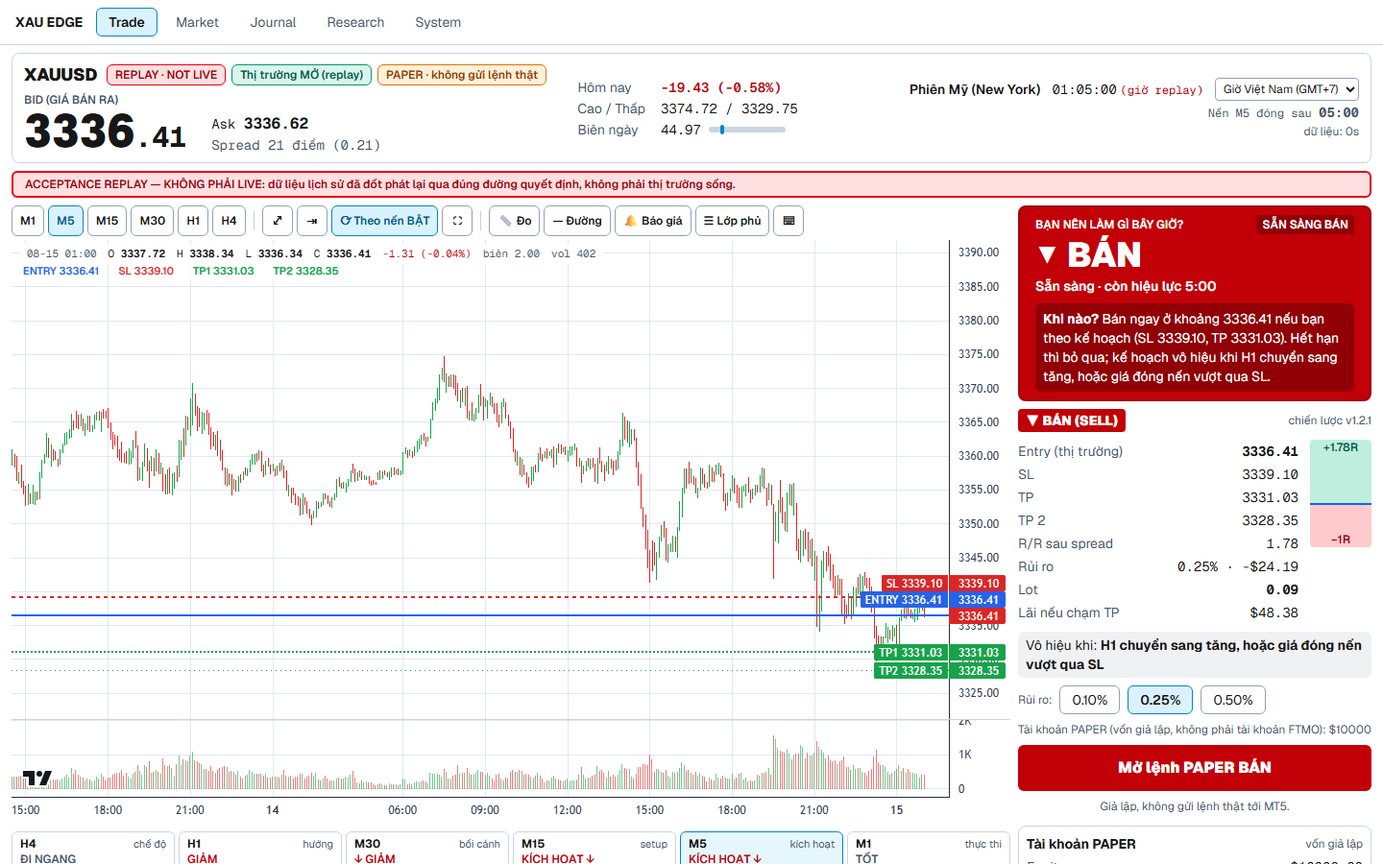
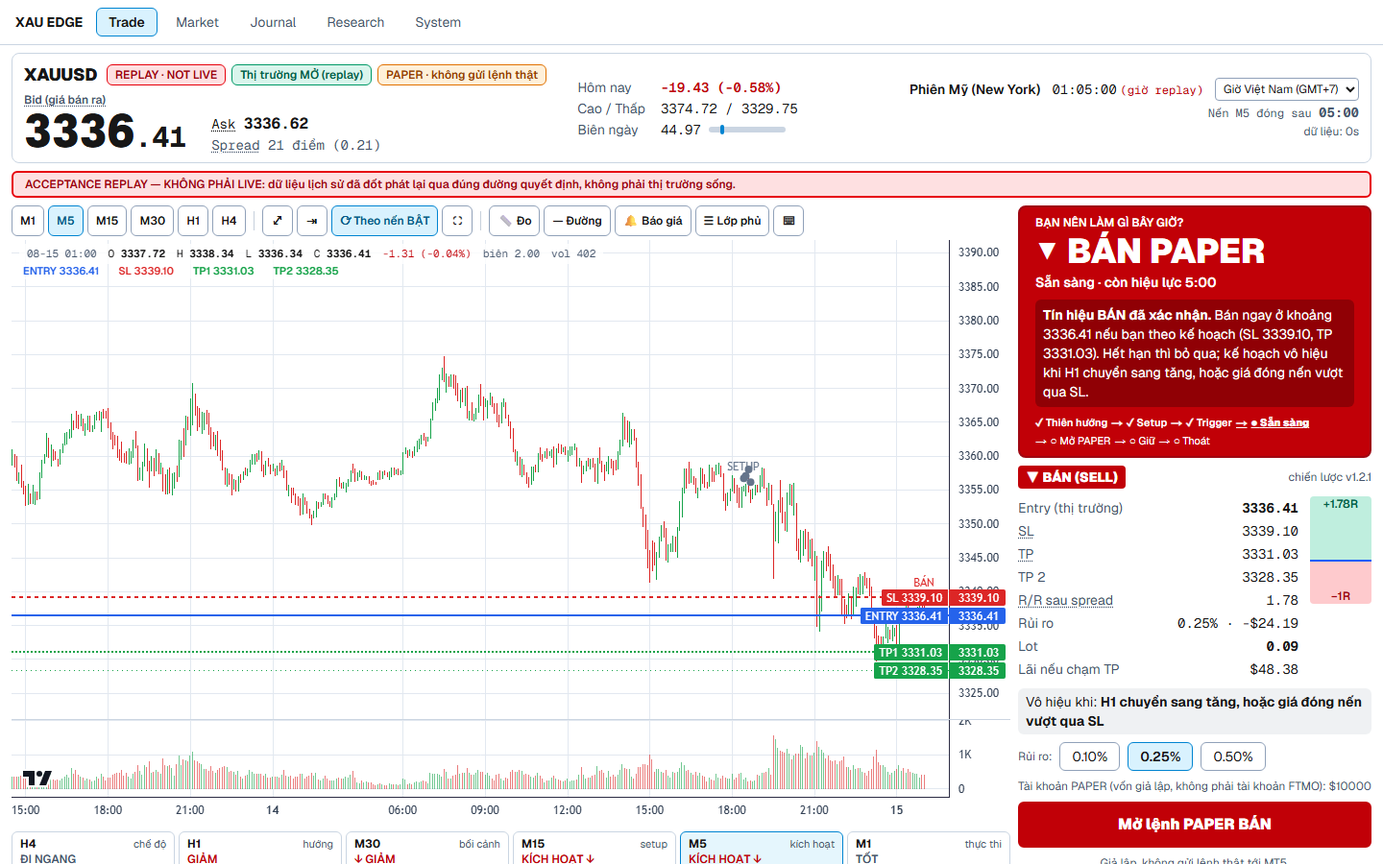
TRADE-08b: landscape phone and 200% zoom get a chart (two-column short layout), System tab in Vietnamese, closed-market hero without bias noise, TIME-exit flake root cause
- short viewports (wide but <=500 px tall): chart | decision columns, folded market details, no sticky bar; chart >= 160 px at 844x390 and 720x450 (executable gate)
- System tab states/sentences in Vietnamese with the raw state as suffix
- bias/setup rows only while the engine evaluates (not closed/expired/blocked)
- TIME_EXIT flake: the EXITED banner lasts 30 replay-minutes and replay steps M5 closes one by one; a 180-minute jump could only show it by a poll landing mid catch-up. Test now stays in the window; Python test pins the behaviour

Changed region(s): [[0.625, 0.2489, 1.0, 1.0], [0.0312, 0.0933, 0.0938, 0.1244], [0.5312, 0.5289, 0.5625, 0.56]]

diff --git a/xau-edge/apps/dashboard/components/terminal/MarketBar.tsx b/xau-edge/apps/dashboard/components/terminal/MarketBar.tsx
@@ -63,8 +63,8 @@ export function MarketBar({ view, tf, zone, onZone, serverNowMs, uiStale }: Prop
   const arrow = dir === "up" ? "▲" : dir === "down" ? "▼" : "";
 
   return (
-    <section data-testid="market-bar" aria-label="Thanh thị trường XAUUSD" className="rounded-lg border border-slate-300 px-3 py-2 dark:border-slate-700">
-      <div className="grid gap-x-8 gap-y-1.5 lg:grid-cols-[auto_auto_1fr] lg:items-center">
+    <section data-testid="market-bar" aria-label="Thanh thị trường XAUUSD" className="rounded-lg border border-slate-300 px-3 py-2 short:py-1 dark:border-slate-700">
+      <div className="grid gap-x-8 gap-y-1.5 short:flex short:flex-wrap short:items-end short:justify-between short:gap-x-6 short:gap-y-0 lg:grid lg:grid-cols-[auto_auto_1fr] lg:items-center">
         {/* price */}
         <div className="min-w-0">
           <div className="flex flex-wrap items-center gap-1.5">
@@ -75,7 +75,7 @@ export function MarketBar({ view, tf, zone, onZone, serverNowMs, uiStale }: Prop
             <span data-testid="market-pill" className={`${pill} ${open ? "border-emerald-600 bg-emerald-500/15 text-emerald-800 dark:text-emerald-200" : "border-slate-500 bg-slate-500/15 text-slate-700 dark:text-slate-300"}`}>
               {open ? `Thị trường MỞ${live ? "" : " (replay)"}` : status === "—" ? "…" : `Thị trường ${status === "CLOSED" ? "ĐÓNG" : status}`}
             </span>
-            <span data-testid="paper-only" className={`${pill} border-amber-600 bg-amber-500/15 text-amber-800 dark:text-amber-200`}><span className="sm:hidden">PAPER</span><span className="hidden sm:inline">PAPER · không gửi lệnh thật</span></span>
+            <span data-testid="paper-only" className={`${pill} border-amber-600 bg-amber-500/15 text-amber-800 dark:text-amber-200`}><span className="roomy:hidden">PAPER</span><span className="hidden roomy:inline">PAPER · không gửi lệnh thật</span></span>
           </div>
           <div className="mt-1 flex flex-wrap items-end gap-x-5 gap-y-1" data-testid="quote">
             <div className={stalePrice ? "grayscale" : ""} aria-label="Giá bid">
@@ -104,7 +104,7 @@ export function MarketBar({ view, tf, zone, onZone, serverNowMs, uiStale }: Prop
         </div>
 
         {/* the day */}
-        <dl data-testid="day-stats" aria-label="Thống kê trong ngày" className={`${more ? "flex" : "hidden"} flex-wrap gap-x-4 gap-y-0.5 text-sm sm:flex lg:grid lg:grid-cols-[auto_auto] lg:gap-x-4`}>
+        <dl data-testid="day-stats" aria-label="Thống kê trong ngày" className={`${more ? "flex" : "hidden"} flex-wrap gap-x-4 gap-y-0.5 text-sm roomy:flex lg:grid lg:grid-cols-[auto_auto] lg:gap-x-4`}>
           <div className="flex gap-1.5 lg:contents">
             <dt className={MUTED}>{daily && !daily.is_current_day ? "Phiên gần nhất" : "Hôm nay"}</dt>
             <dd data-testid="day-change" className={`font-mono font-semibold tabular-nums ${changeTone}`}>
@@ -136,7 +136,7 @@ export function MarketBar({ view, tf, zone, onZone, serverNowMs, uiStale }: Prop
               {serverNowMs > 0 ? clockInZone(serverNowMs, zone) : "--:--:--"}
               {!live && view ? <span className="ml-1 text-xs font-normal text-red-700 dark:text-red-300">(giờ replay)</span> : null}
             </span>
-            <select aria-label="Múi giờ hiển thị" value={zone} onChange={(e) => onZone(e.target.value as DisplayZone)} className={`${more ? "block" : "hidden"} max-w-44 rounded border border-slate-400 bg-transparent px-1 py-0.5 text-xs sm:block`}>
+            <select aria-label="Múi giờ hiển thị" value={zone} onChange={(e) => onZone(e.target.value as DisplayZone)} className={`${more ? "block" : "hidden"} max-w-44 rounded border border-slate-400 bg-transparent px-1 py-0.5 text-xs roomy:block`}>
               {(Object.keys(ZONE_LABEL) as DisplayZone[]).map((z) => (
                 <option key={z} value={z}>{ZONE_LABEL[z]}</option>
               ))}
@@ -146,7 +146,7 @@ export function MarketBar({ view, tf, zone, onZone, serverNowMs, uiStale }: Prop
             {countdown ? <>Nến {tf} đóng sau <b className="text-sm text-inherit">{countdown}</b></> : <span>{open ? `Nến ${tf}: chờ dữ liệu` : reopen !== null ? <>Mở lại lúc <b className="text-sm text-inherit">{formatInZone(ctx?.next_open ?? null, zone).slice(5, 16)}</b> · còn <b className="text-sm text-inherit">{reopenIn}</b></> : `Nến ${tf}: thị trường đóng`}</span>}
           </div>
           <span data-testid="data-age" className={`hidden text-xs sm:inline ${MUTED}`}>dữ liệu: {ageText(view?.data_age_seconds)}</span>
-          <button type="button" data-testid="market-more" aria-expanded={more} onClick={() => setMore(!more)} className="text-xs font-semibold underline sm:hidden">{more ? "Ẩn chi tiết thị trường ▴" : "Chi tiết thị trường ▾"}</button>
+          <button type="button" data-testid="market-more" aria-expanded={more} onClick={() => setMore(!more)} className="text-xs font-semibold underline roomy:hidden">{more ? "Ẩn chi tiết thị trường ▴" : "Chi tiết thị trường ▾"}</button>
         </div>
       </div>
     </section>

diff --git a/xau-edge/apps/dashboard/components/terminal/TerminalView.tsx b/xau-edge/apps/dashboard/components/terminal/TerminalView.tsx
@@ -455,7 +455,7 @@ export function TerminalView() {
         alertCount={alerts.filter((a) => !a.firedAt).length}
         onHelp={() => setHelp(true)}
       />
-      <div className={`relative flex min-h-0 ${fullscreen ? "flex-1" : "h-[min(28rem,62vh)] sm:h-[28rem] lg:h-[min(38rem,calc(100vh-14rem))]"}`}>
+      <div className={`relative flex min-h-0 ${fullscreen ? "flex-1" : "h-[min(28rem,62vh)] sm:h-[28rem] short:h-[calc(100dvh-11rem)] lg:h-[min(38rem,calc(100vh-14rem))]"}`}>
         {dim && <div data-testid="chart-veil" aria-hidden="true" className="pointer-events-none absolute inset-0 z-[5] bg-white/60 dark:bg-slate-950/60" />}
         {hydrated && <TerminalChart
           ref={chart}
@@ -494,12 +494,12 @@ export function TerminalView() {
   );
 
   return (
-    <main className={`mx-auto w-full max-w-[1800px] space-y-2 px-2 py-2 sm:px-3 ${showActionBar ? "pb-20 lg:pb-2" : ""}`}>
+    <main className={`mx-auto w-full max-w-[1800px] space-y-2 px-2 py-2 short:space-y-1 short:py-1 sm:px-3 ${showActionBar ? "pb-20 short:pb-2 lg:pb-2" : ""}`}>
       <div inert={modalOpen} className="space-y-2">
       <MarketBar view={view} tf={prefs.tf} zone={prefs.zone} onZone={changeZone} serverNowMs={serverNow} uiStale={uiStale} />
 
       {mode !== "LIVE" && (
-        <div role="alert" data-testid="replay-banner" className={`rounded-md border-2 px-3 py-1 text-xs font-semibold ${BAD}`}>
+        <div role="alert" data-testid="replay-banner" className={`rounded-md border-2 px-3 py-1 short:py-0 text-xs font-semibold ${BAD}`}>
           {mode.replace("_", " ")} — KHÔNG PHẢI LIVE<span className="hidden sm:inline">: dữ liệu lịch sử đã đốt phát lại qua đúng đường quyết định, không phải thị trường sống.</span>
         </div>
       )}
@@ -542,14 +542,14 @@ export function TerminalView() {
 
       {/* phone: one column in the order price -> decision -> chart -> plan; desktop: chart column | decision column,
           independent of each other so a tall decision never pushes the multi-timeframe strip down */}
-      <div data-testid="terminal-grid" className="grid items-start gap-2 [grid-template-areas:'hero'_'chart'_'mtf'_'body'] lg:grid-cols-[minmax(0,1fr)_23rem] lg:[grid-template-areas:'left_side']">
-        <div className="contents lg:flex lg:min-w-0 lg:flex-col lg:gap-2 lg:[grid-area:left]">
+      <div data-testid="terminal-grid" className="grid items-start gap-2 [grid-template-areas:'hero'_'chart'_'mtf'_'body'] short:grid-cols-[minmax(0,1.5fr)_minmax(0,1fr)] short:[grid-template-areas:'left_side'] lg:grid-cols-[minmax(0,1fr)_23rem] lg:[grid-template-areas:'left_side']">
+        <div className="contents short:flex short:min-w-0 short:flex-col short:gap-2 short:[grid-area:left] lg:flex lg:min-w-0 lg:flex-col lg:gap-2 lg:[grid-area:left]">
           {chartBlock}
           <div style={{ gridArea: "mtf" }} className="min-w-0">
             <MtfStrip rows={view?.timeframes ?? []} tf={prefs.tf} onFocus={focusTf} />
           </div>
         </div>
-        <div className="contents lg:flex lg:min-w-0 lg:flex-col lg:gap-2 lg:[grid-area:side]">
+        <div className="contents short:flex short:max-h-[calc(100dvh-4.5rem)] short:min-w-0 short:flex-col short:gap-2 short:overflow-y-auto short:[grid-area:side] lg:flex lg:min-w-0 lg:flex-col lg:gap-2 lg:[grid-area:side]">
           <div style={{ gridArea: "hero" }} className="min-w-0">{heroNode}</div>
           <div style={{ gridArea: "body" }} className="min-w-0">{bodyNode}</div>
         </div>
@@ -588,7 +588,7 @@ export function TerminalView() {
 
       </div>
       {showActionBar && view && (
-        <div data-testid="mobile-action-bar" inert={modalOpen} style={{ paddingBottom: "max(0.5rem, env(safe-area-inset-bottom))" }} className="fixed inset-x-0 bottom-0 z-[45] flex items-center gap-3 border-t-2 border-slate-400 bg-white px-3 py-2 shadow-[0_-4px_12px_rgba(0,0,0,0.15)] lg:hidden dark:bg-slate-900">
+        <div data-testid="mobile-action-bar" inert={modalOpen} style={{ paddingBottom: "max(0.5rem, env(safe-area-inset-bottom))" }} className="short:hidden fixed inset-x-0 bottom-0 z-[45] flex items-center gap-3 border-t-2 border-slate-400 bg-white px-3 py-2 shadow-[0_-4px_12px_rgba(0,0,0,0.15)] lg:hidden dark:bg-slate-900">
           {hero?.state === "POSITION_OPEN" && position ? (
             <>
               <div className="min-w-0 flex-1 text-sm">

diff --git a/xau-edge/apps/dashboard/components/terminal/ChartToolbar.tsx b/xau-edge/apps/dashboard/components/terminal/ChartToolbar.tsx
@@ -28,7 +28,7 @@ interface Props {
   onHelp: () => void;
 }
 
-const btn = "h-8 min-w-8 items-center justify-center rounded-md border px-2 text-xs font-semibold";
+const btn = "h-8 short:h-7 min-w-8 items-center justify-center rounded-md border px-2 text-xs font-semibold";
 const shown = "inline-flex";
 const on = "border-sky-600 bg-sky-500/15 text-sky-800 dark:text-sky-200";
 const off = "border-slate-400 hover:bg-slate-500/10";
@@ -48,7 +48,7 @@ export function ChartToolbar(p: Props) {
   const [overlayOpen, setOverlayOpen] = useState(false);
   const [price, setPrice] = useState("");
   const [more, setMore] = useState(false); // phone only: the secondary tools
-  const sec = `${more ? "inline-flex" : "hidden"} sm:inline-flex`; // a phone shows only the timeframes, fullscreen and ⋯
+  const sec = `${more ? "inline-flex" : "hidden"} roomy:inline-flex`; // a phone shows only the timeframes, fullscreen and ⋯
 
   const submitAlert = () => {
     const v = parseDecimal(price);
@@ -80,7 +80,7 @@ export function ChartToolbar(p: Props) {
       <span className="mx-1 hidden h-5 w-px bg-slate-400/50 sm:block" aria-hidden="true" />
       <button type="button" data-testid="tool-measure" title="Đo giá/thời gian (M)" aria-pressed={p.tool === "measure"} onClick={() => p.onTool(p.tool === "measure" ? "none" : "measure")} aria-label="Đo giá và thời gian" className={`${btn} ${p.tool === "measure" ? on : off} ${sec}`}>📏&nbsp;Đo</button>
       <button type="button" data-testid="tool-line" title="Vẽ đường ngang (T)" aria-pressed={p.tool === "line"} onClick={() => p.onTool(p.tool === "line" ? "none" : "line")} aria-label="Vẽ đường ngang" className={`${btn} ${p.tool === "line" ? on : off} ${sec}`}>—&nbsp;Đường</button>
-      <div className={`relative ${more ? "block" : "hidden"} sm:block`}>
+      <div className={`relative ${more ? "block" : "hidden"} roomy:block`}>
         <button type="button" data-testid="tool-alert" title="Cảnh báo giá" aria-expanded={alertOpen} onClick={() => { setAlertOpen(!alertOpen); setOverlayOpen(false); }} className={`${shown} ${btn} ${alertOpen ? on : off}`}>
           🔔&nbsp;Báo giá{p.alertCount > 0 ? ` (${p.alertCount})` : ""}
         </button>
@@ -95,7 +95,7 @@ export function ChartToolbar(p: Props) {
           </div>
         )}
       </div>
-      <div className={`relative ${more ? "block" : "hidden"} sm:block`}>
+      <div className={`relative ${more ? "block" : "hidden"} roomy:block`}>
         <button type="button" data-testid="overlay-menu" title="Lớp phủ" aria-expanded={overlayOpen} aria-haspopup="true" onClick={() => { setOverlayOpen(!overlayOpen); setAlertOpen(false); }} aria-label="Lớp phủ trên biểu đồ" className={`${shown} ${btn} ${overlayOpen ? on : off}`}>☰&nbsp;Lớp phủ</button>
         {overlayOpen && (
           <div role="group" aria-label="Lớp phủ trên biểu đồ" className="absolute right-0 top-9 z-30 w-56 space-y-1 rounded-lg border border-slate-400 bg-white p-2 text-xs shadow-lg sm:left-0 sm:right-auto dark:bg-slate-900" onKeyDown={(e) => e.key === "Escape" && setOverlayOpen(false)}>
@@ -113,7 +113,7 @@ export function ChartToolbar(p: Props) {
         )}
       </div>
       <button type="button" data-testid="shortcut-help" title="Phím tắt (?)" aria-label="Xem phím tắt" onClick={p.onHelp} className={`${btn} ${off} ${sec}`}>⌨</button>
-      <button type="button" data-testid="toolbar-more" aria-expanded={more} aria-label={more ? "Ẩn công cụ" : "Thêm công cụ"} onClick={() => setMore(!more)} className={`${shown} ${btn} ${more ? on : off} sm:hidden`}>⋯</button>
+      <button type="button" data-testid="toolbar-more" aria-expanded={more} aria-label={more ? "Ẩn công cụ" : "Thêm công cụ"} onClick={() => setMore(!more)} className={`${shown} ${btn} ${more ? on : off} roomy:hidden`}>⋯</button>
     </div>
   );
 }

diff --git a/xau-edge/apps/dashboard/e2e-acceptance/desk.spec.ts b/xau-edge/apps/dashboard/e2e-acceptance/desk.spec.ts
@@ -131,7 +131,7 @@ test.describe("the real chart", () => {
     await page.getByTestId("chart-tf-M1").click();
     await expect(buy).toHaveAttribute("data-bar-time", "2025-12-05T14:44:00.000Z");
     await page.getByTestId("chart-tf-M5").click();
-    await expect(page.getByTestId("chart-markers").locator('li[data-kind="EXIT"]')).toContainText("TAKE_PROFIT");
+    await expect(page.getByTestId("chart-markers").locator('li[data-kind="EXIT"]')).toContainText("Chạm TP");
     await buy.getByRole("button", { name: "Xem chi tiết" }).focus();
     await page.keyboard.press("Enter");
     await expect(page.getByTestId("marker-popover")).toContainText("Tín hiệu MUA");
@@ -156,7 +156,7 @@ test.describe("paper lifecycle through the real API", () => {
     await expect(page.getByTestId("paper-history")).toContainText("TAKE_PROFIT");
     await page.getByTestId("tab-activity").click();
     await expect(page.getByTestId("activity-feed")).toContainText("Chạm TP");
-    await expect(page.getByTestId("chart-markers")).toContainText(/TAKE_PROFIT/);
+    await expect(page.getByTestId("chart-markers")).toContainText(/Chạm TP/);
     await shot(page, "08-replay-exit-take-profit");
     await page.goto("/journal");
     const row = page.getByTestId("journal-row").first();
@@ -164,7 +164,7 @@ test.describe("paper lifecycle through the real API", () => {
     await expect(row).toContainText("Chạm TP");
     await expect(page.getByTestId("journal-replay-banner")).toContainText("KHÔNG PHẢI LIVE");
     await page.getByTestId("journal-detail-toggle").first().click();
-    await expect(page.getByTestId("journal-detail")).toContainText("ACCEPTANCE_REPLAY");
+    await expect(page.getByTestId("journal-detail")).toContainText("ACCEPTANCE REPLAY");
     await shot(page, "12-replay-journal", true);
     // journal -> chart: the link lands on the trade, on the right timeframe, with its markers
     await page.getByTestId("journal-view-on-chart").first().click();
@@ -235,7 +235,11 @@ test.describe("paper lifecycle through the real API", () => {
   test("TIME_EXIT", async ({ page, request }) => {
     await load(page, request, "buy_time");
     await openPaper(page);
-    await advance(request, 180);
+    // The EXITED banner lasts 30 replay-minutes after the close and the replay steps one M5 close at a time. A single
+    // 180-minute jump would put the exit (at +120) 60 minutes in the past, so the banner could only be seen by luck
+    // (a poll landing mid catch-up): that was the TRADE-07 flake. Stay inside the window instead.
+    await advance(request, 110);
+    await advance(request, 15);
     await expect(hero(page)).toHaveAttribute("data-hero-state", "EXITED", { timeout: 20_000 });
     await page.getByTestId("tab-position").click();
     await expect(page.getByTestId("paper-history")).toContainText("TIME_EXIT");
@@ -263,7 +267,8 @@ test.describe("failure states are explicit and never a plain WAIT", () => {
   test("corrupt paper state fails closed and says so", async ({ page, request }) => {
     await load(page, request, "paper_corrupt");
     await expect(hero(page)).toHaveAttribute("data-hero-state", "UNAVAILABLE");
-    await expect(page.getByTestId("hero-problems")).toContainText("PAPER_STATE_ERROR");
+    await expect(page.getByTestId("hero-problems")).toContainText("Trạng thái bàn PAPER không khớp nhật ký");
+    await expect(page.getByTestId("conditions").locator("details").first()).toContainText("PAPER_STATE_ERROR"); // the code is in the technical details
     await expect(page.getByTestId("take-paper")).toHaveCount(0);
     await shot(page, "16-replay-paper-state-error");
   });

diff --git a/xau-edge/apps/dashboard/components/terminal/SystemCards.tsx b/xau-edge/apps/dashboard/components/terminal/SystemCards.tsx
@@ -19,6 +19,20 @@ const NAMES: [keyof StatusStripData, string][] = [
   ["edge", "Edge (lợi thế)"],
 ];
 
+/** The state words and fixed sentences the server sends (English), in plain Vietnamese; the raw word stays as a suffix. */
+const STATE_VI: Record<string, string> = {
+  GOOD: "TỐT", RUNNING: "ĐANG CHẠY", READY: "SẴN SÀNG", ACTIVE: "ĐANG DÙNG", LOCKED: "ĐÃ KHÓA", READ_ONLY: "CHỈ ĐỌC",
+  CLOSED: "ĐÓNG", STALE: "CŨ", ERROR: "LỖI", UNAVAILABLE: "KHÔNG KHẢ DỤNG", DEGRADED: "SUY GIẢM", UNVALIDATED: "CHƯA KIỂM CHỨNG",
+};
+const DETAIL_VI: Record<string, string> = {
+  "the market is closed": "Thị trường đang đóng cửa",
+  "bars and quote are fresh": "Nến và báo giá còn mới",
+  "decisions are being computed": "Bộ máy đang tính quyết định",
+  "paper state verified against its journal": "Trạng thái bàn PAPER đã khớp nhật ký",
+  "paper only; the desk never sends an order": "Chỉ PAPER: bàn không bao giờ gửi lệnh thật",
+  UNVALIDATED_OPERATIONAL_BASELINE: "Baseline vận hành, chưa phải lợi thế đã kiểm chứng",
+};
+
 const FORWARD_VI: Record<string, string> = {
   F0: "chưa thấy setup LIVE nào",
   F1: "đã thấy setup LIVE",
@@ -35,12 +49,14 @@ export function SystemStatus({ strip }: { strip: StatusStripData | undefined }) 
       <ul className="space-y-1 text-sm">
         {NAMES.map(([key, name]) => {
           const item = strip[key] as { state: string; detail: string; label?: string };
-          const state = key === "strategy" && item.label ? item.label : item.state;
+          const raw = key === "strategy" && item.label ? item.label : item.state;
+          const state = STATE_VI[raw] ? `${STATE_VI[raw]} · ${raw}` : raw;
+          const detail = key === "forward" ? (FORWARD_VI[item.state] ?? item.detail) : key === "strategy" ? "" : (DETAIL_VI[item.detail] ?? item.detail);
           return (
             <li key={key} data-testid={`status-${key}`} className="flex flex-wrap items-center gap-2">
               <span className="w-full text-slate-600 sm:w-40 dark:text-slate-400">{name}</span>
               <span className="min-w-0 max-w-full [&>*]:max-w-full [&>*]:whitespace-normal [&>*]:break-words"><Pill value={state} tone={CHIP_TONE[item.state] ?? NEUTRAL} /></span>
-              <span className="min-w-0 flex-1 text-xs text-slate-600 dark:text-slate-400">{item.detail}</span>
+              <span title={item.detail} className="min-w-0 flex-1 text-xs text-slate-600 dark:text-slate-400">{detail}</span>
             </li>
           );
         })}

diff --git a/xau-edge/apps/dashboard/e2e/lifecycle.spec.ts b/xau-edge/apps/dashboard/e2e/lifecycle.spec.ts
@@ -228,3 +228,35 @@ test("offline for more than a minute: the hero is UNAVAILABLE, the old plan is f
   await expect(page.getByTestId("stale-plan")).toHaveCount(0);
   await expect(page.getByTestId("take-paper")).toBeEnabled();
 });
+
+// Pre-registered landscape/zoom gate: a wide but SHORT viewport gets two columns (chart | decision) and folded market details.
+for (const [w, h, label] of [[844, 390, "phone landscape"], [720, 450, "200% zoom"]] as const) {
+  for (const name of ["wait", "buyWatch", "buy", "openPaper"] as const) {
+    test(`${label} ${w}x${h} (${name}): price, action and at least 160 px of chart on the first screen, nothing overflows`, async ({ page }) => {
+      await mock(page, view(name));
+      await page.setViewportSize({ width: w, height: h });
+      await page.goto("/trade");
+      await expect(page.getByTestId("action-word")).toBeVisible();
+      await page.waitForTimeout(500);
+      const m = await page.evaluate(() => {
+        const q = (id: string) => document.querySelector(`[data-testid=${id}]`)!;
+        const c = q("trade-chart").getBoundingClientRect();
+        const bar = document.querySelector("[data-testid=mobile-action-bar]");
+        const floor = bar && getComputedStyle(bar).display !== "none" ? bar.getBoundingClientRect().top : innerHeight; // a short viewport has no sticky bar: the ticket is in the side column
+        return {
+          priceBottom: q("price-bid").getBoundingClientRect().bottom,
+          wordBottom: q("action-word").getBoundingClientRect().bottom,
+          chartVisible: Math.max(0, Math.min(floor, c.bottom, innerHeight) - Math.max(0, c.top)),
+          sideBySide: q("action-word").getBoundingClientRect().left > c.right - 4,
+          scrollW: document.documentElement.scrollWidth,
+          vw: innerWidth,
+        };
+      });
+      expect(m.priceBottom).toBeLessThan(h);
+      expect(m.wordBottom).toBeLessThan(h);
+      expect(m.chartVisible).toBeGreaterThanOrEqual(160);
+      expect(m.sideBySide).toBe(true);
+      expect(m.scrollW).toBeLessThanOrEqual(m.vw);
+    });
+  }
+}

diff --git a/xau-edge/apps/dashboard/components/MainNav.tsx b/xau-edge/apps/dashboard/components/MainNav.tsx
@@ -15,7 +15,7 @@ const LINKS: [string, string][] = [
 export function MainNav() {
   const path = usePathname() ?? "";
   return (
-    <nav aria-label="Điều hướng chính" data-testid="main-nav" className="flex flex-wrap items-center gap-1 border-b border-slate-300 px-2 py-2 text-sm sm:gap-1.5 sm:px-4 dark:border-slate-700">
+    <nav aria-label="Điều hướng chính" data-testid="main-nav" className="flex flex-wrap items-center gap-1 border-b border-slate-300 px-2 py-2 short:py-0.5 text-sm sm:gap-1.5 sm:px-4 dark:border-slate-700">
       <span className="mr-2 hidden font-bold sm:inline">XAU EDGE</span>
       {LINKS.map(([href, label]) => {
         const active = path === href || path.startsWith(`${href}/`);
@@ -24,7 +24,7 @@ export function MainNav() {
             key={href}
             href={href}
             aria-current={active ? "page" : undefined}
-            className={`rounded-md border px-2 py-1 sm:px-3 ${active ? "border-sky-600 bg-sky-500/15 font-semibold" : "border-transparent text-slate-600 dark:text-slate-300"}`}
+            className={`rounded-md border px-2 py-1 short:py-0 sm:px-3 ${active ? "border-sky-600 bg-sky-500/15 font-semibold" : "border-transparent text-slate-600 dark:text-slate-300"}`}
           >
             {label}
           </Link>

diff --git a/xau-edge/apps/dashboard/components/terminal/HeroCard.tsx b/xau-edge/apps/dashboard/components/terminal/HeroCard.tsx
@@ -68,7 +68,7 @@ export function HeroCard(c: Common) {
       </div>
       {/* a phone drops the sub line only where it repeats the "KHÔNG VÀO LỆNH" badge (a lean with no setup yet); every other state keeps it */}
       <p data-testid="action-sub" className={`mt-1 text-sm font-semibold ${waiting && t.bias.side && t.setup === "Chưa có" ? "hidden sm:block" : ""}`}>{c.sub}</p>
-      {waiting && (
+      {waiting && t.showBias && (
         <dl data-testid="bias" data-bias={t.bias.side ?? "NONE"} className="mt-1 grid grid-cols-[6rem_1fr] gap-x-2 gap-y-0.5 text-[13px]">
           <dt className="font-bold uppercase tracking-wide opacity-75"><Term id="bias">Thiên hướng</Term></dt>
           <dd data-testid="bias-value">{arrow(t.bias.side)} {t.bias.word}<span className="text-slate-800 dark:text-slate-200"> — {t.bias.side ? "chỉ là hướng thị trường nghiêng về, không phải lệnh" : "chưa có hướng ưu tiên rõ"}</span></dd>

diff --git a/xau-edge/apps/dashboard/lib/action.ts b/xau-edge/apps/dashboard/lib/action.ts
@@ -36,6 +36,8 @@ export interface ActionText {
   bias: BiasText;
   /** Chưa có / Đang hình thành (nến 2/6) / Đã kích hoạt */
   setup: string;
+  /** the bias and setup rows only mean something while the engine is evaluating (not closed, expired, blocked, ...) */
+  showBias: boolean;
 }
 
 const money = (v: number | null | undefined) => (v === null || v === undefined ? "—" : `${v >= 0 ? "+" : "-"}$${Math.abs(v).toFixed(2)}`);
@@ -79,6 +81,7 @@ export function actionText(view: TradeView, secondsLeft: number | null, expiredN
     when: `${whenLabel} ${whenBody}`.trim(),
     bias,
     setup,
+    showBias: a.code === "WAIT" && ["WAITING", "WATCHING", "ARMED"].includes(a.stage),
   });
 
   if (a.code === "UNAVAILABLE") {

diff --git a/xau-edge/apps/dashboard/app/globals.css b/xau-edge/apps/dashboard/app/globals.css
@@ -1,5 +1,10 @@
 @import "tailwindcss";
 
+/* A phone held sideways (or a 200%-zoomed window) is wide but SHORT: it needs the compact controls of a phone and the
+   two-column layout of a desktop. `short` = wide enough for two columns, too short for stacked blocks; `roomy` = neither. */
+@custom-variant short (@media (min-width: 640px) and (max-height: 500px));
+@custom-variant roomy (@media (min-width: 640px) and (min-height: 501px));
+
 :root {
   --background: #ffffff;
   --foreground: #171717;

diff --git a/xau-edge/tests/unit/trading/test_acceptance_replay.py b/xau-edge/tests/unit/trading/test_acceptance_replay.py
@@ -190,3 +190,29 @@ def test_open_position_is_hold_and_the_exit_is_exit(tmp_path: Path) -> None:
     world.advance_minutes(50)
     assert world.engine.view()["hero"]["action"]["code"] == "EXIT"
     world.close()
+
+
+def test_the_time_exit_banner_lasts_thirty_replay_minutes_so_a_long_jump_cannot_show_it(
+    tmp_path: Path,
+) -> None:
+    """TRADE-07 flake root cause: EXIT is a 30-minute banner, replay steps one M5 close at a time.
+
+    Jumping past ``max_hold + 30 min`` in one go leaves the exit already in the past (WAIT); a
+    browser test could only have seen EXITED by a poll landing mid catch-up. The product is right;
+    the test must stay inside the window.
+    """
+    world = AcceptanceWorld(MARKET, tmp_path, SCENARIOS["buy_time"])
+    world.engine.paper_open(setup_id=world.engine.view()["decision"]["setup_id"], risk_pct=0.25)
+    world.advance_minutes(110)
+    assert world.engine.view()["hero"]["action"]["code"] == "HOLD"  # 10 minutes of hold left
+    world.advance_minutes(15)  # past the 120-minute hold, 5 minutes after the exit
+    exited = world.engine.view()
+    assert exited["hero"]["action"]["code"] == "EXIT"
+    assert exited["desk"]["last_exit"]["exit_reason"] == "TIME_EXIT"
+    world.advance_minutes(
+        60
+    )  # 60 minutes later the banner is gone, the exit stays in the journal and last_exit
+    later = world.engine.view()
+    assert later["hero"]["action"]["code"] != "EXIT"
+    assert later["desk"]["last_exit"]["exit_reason"] == "TIME_EXIT"
+    world.close()
